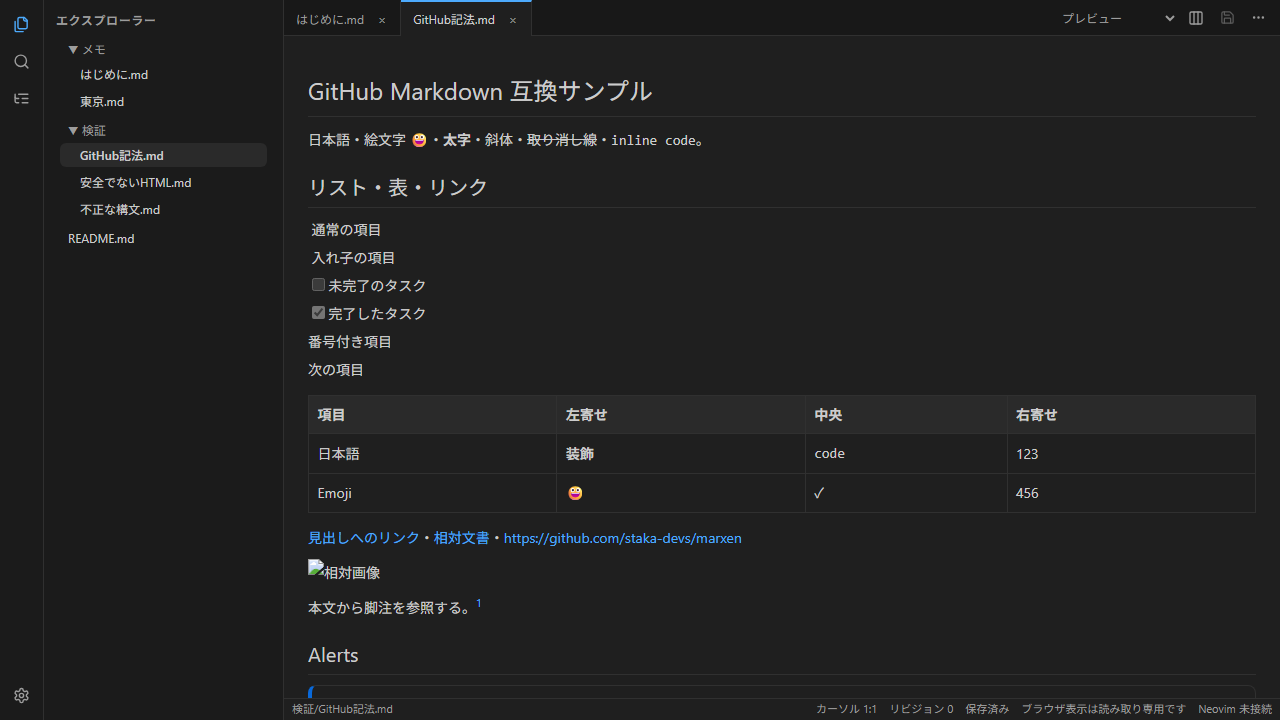
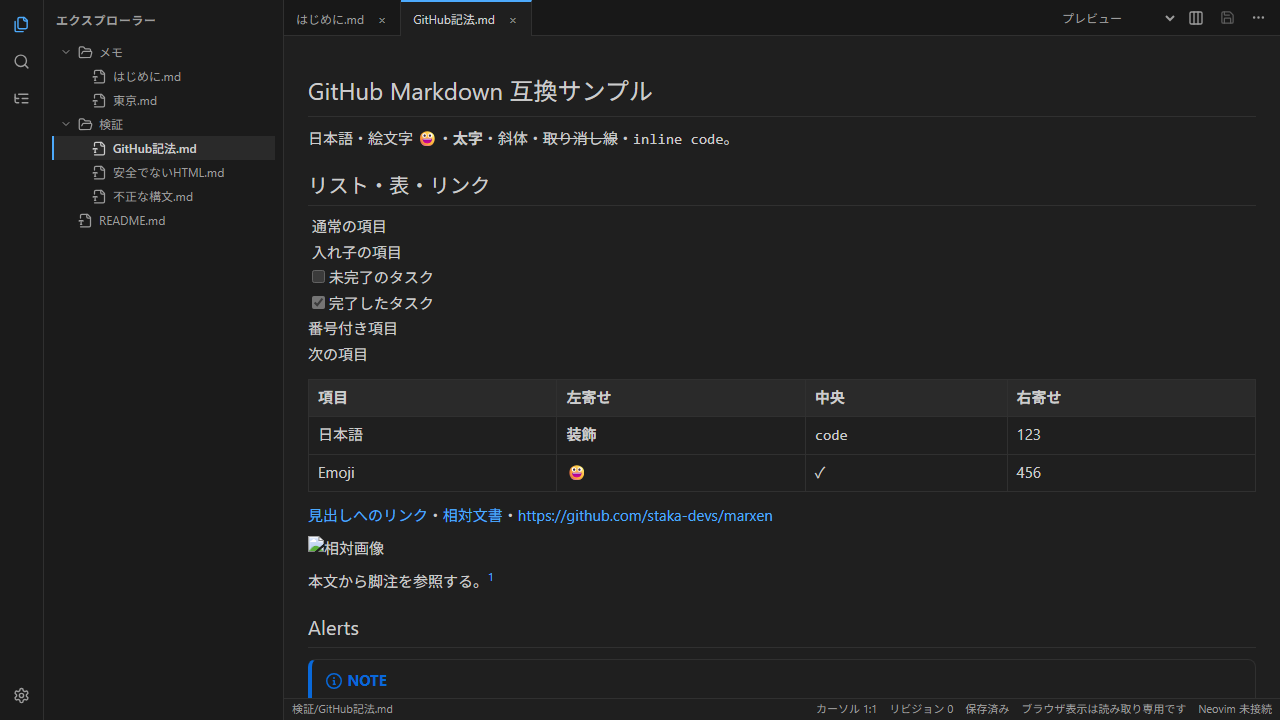
test: verify native chat and document Windows distribution

diff --git a/src/components/shell/WorkspaceShell.registry.test.tsx b/src/components/shell/WorkspaceShell.registry.test.tsx
@@ -370,9 +370,8 @@ it("opens the natively picked folder instead of a typed prompt", async () => {
   fireEvent.click(screen.getAllByRole("button", { name: "フォルダーを開く" })[0]);
   await screen.findByRole("button", { name: "メモ/a.md" });
   expect(mockedInvoke).toHaveBeenCalledWith("open_workspace", { path: "/picked/ws" });
-  // Clean chrome shows the root in the explorer; the manual path field stays
-  // collapsed until explicitly requested.
-  expect(screen.getByText("/picked/ws")).toBeVisible();
+  expect(screen.getByText("ws")).toBeVisible();
+  expect(screen.getByTitle("/picked/ws")).toHaveTextContent("ws");
 });
 
 it("picks the config file natively and applies it with restart", async () => {

diff --git a/docs/reports/issue-5-ui.md b/docs/reports/issue-5-ui.md
@@ -1,26 +1,23 @@
 # UI・Vim 操作・範囲編集の検証
 
-環境: Windows x64、Node 22.23.2、Playwright 1.63.0、同梱 Neovim 0.11.5。
+環境は Windows x64、Node 22.23.2、Playwright 1.63.0、WebView2 / Edge 154、同梱 Neovim 0.11.5。
 
-編集画面は細いアクティビティバー、切替式の単一サイドバー、コンパクトなタブ、広い本文、最小限のステータスバーで構成する。書式・表示基準・原文ビュー・AI 設定はメニューやパネルから操作する。本文とサイドバーは独立してスクロールする。
+細いアクティビティバー、用途を切り替えるサイドバー、コンパクトなタブ、独立した本文スクロールを使う。分割表示は Markdown 編集と描画を左右に配置し、境界のドラッグで幅を調整する。フォルダー名と種類別アイコンを表示し、テキストと対応画像以外のファイルを一覧から除く。外観・エディター・Vim・コピー・AI の設定を分ける。
 
-挿入・置換では実 Neovim のユーザーマッピングを優先し、該当しない入力は正確な半開範囲を置換する。モードが不確かなキーは Neovim へ送り、実行時のモードで処理する。連続入力の位置は投影して入力順を保ち、改訂不一致では再同期する。再送は採取した全文との一致を確認できる場合だけ一度行う。
-
-挿入中のマウス選択は維持し、選択や新しい入力が発生した後は古い非同期応答を反映しない。貼り付けイベントの本文・画像を既定挿入より先に取得し、一度だけ範囲編集として送る。キーボード貼り付けはマッピングを優先し、メニュー貼り付けは直接挿入する。通常モードの Ctrl+V は Neovim の矩形選択となる。
-
-AI 提案は隔離コピーと差分レビューを経て承認する。適用・変更なし・失敗・ロールバックを文書ごとに表示し、適用後は正本の snapshot を取得する。相対画像は文書 ID ごとに解決し、文書切替後の古い取得結果を捨てる。
-
-| 検証 | 実施結果 |
+| 検証 | 結果 |
 | --- | --- |
-| `npm run typecheck` | 成功 |
-| `npm test` | 25 ファイル / 185 件成功。模擬 IPC で入力順、遅延応答、マッピング、選択置換、改訂競合、貼り付けの単一性、画像、AI 承認結果を確認 |
-| `npm run test:e2e` | 製品ビルド 11 件、ライブ編集器 15 件成功。表示切替、狭い画面、操作メニュー、原文保持、描画、Composition の確定・取消を確認 |
-| UI 画像 | [1493×1047](issue-5-ui/clean-1493.png)、[1280×800](issue-5-ui/clean-1280.png) を製品 E2E で生成 |
-| Windows 実 WebView2・開発アプリ | フォルダーダイアログからの読み込み、Markdown 表示、タスク変更の保存、実 Neovim Undo 後の保存、`.vimrc` パスの適用と再起動を確認 |
-| Windows 実 WebView2 のマッピング | テスト設定の `nnoremap <F6> gg` を読み込み、Windows SendKeys の F6 入力で 15:1→1:1、改訂不変を確認。ハードウェアによるキー押下ではない |
-| Windows 実日本語 IME | 原文表示では Orca の Windows キー入力で「にほん」→「日本」を変換。ライブ表示でも「か」を入力。どちらも OS の Composition 更新中は本文・改訂不変、確定時は改訂が一度進み、一回の Neovim Undo で元の本文に戻る。未確定「か」の Esc 取消も両表示で本文・改訂不変 |
-| Windows 実クリップボード | 日本語・絵文字の Ctrl+V は改訂が一度進み、保存後は 333 バイト。一回の Undo・保存で元の 316 バイトと SHA-256 が一致。PNG は 16×12 / 140 バイトを Rust が `images/image.png` へ保存し、相対 Markdown を一度挿入。Rust の画像読込と実体が一致し、本文は一回の Undo・保存で元に戻る。検証後に元のクリップボードを復元 |
+| 模擬 IPC の回帰 | 入力順、遅延応答、ユーザーマッピング優先、選択置換、revision 競合、貼り付けの単一性、画像、AI 適用結果を確認 |
+| 製品・ライブ E2E | 表示切替、幅の変更、狭い画面、テーマ、カーソル、操作メニュー、文書保持、Composition の確定・取消を確認 |
+| Windows 実アプリ | フォルダー読込、Markdown 描画、保存、Neovim Undo、.vimrc 設定と再起動を確認 |
+| 実マッピング | nnoremap <F6> gg を読み込み、Windows SendKeys の F6 で 15:1→1:1、revision 不変 |
+| Windows 実 IME | Markdown / ライブで未確定・変換中は文書不変。確定で一度だけ revision が進み、一回の Neovim Undo で復元。Esc 取消と Normal モードの IME 入力は文書不変 |
+| テキスト・画像 | テキストは Neovim で編集し、Markdown 表示操作を無効化。画像は文書 buffer を作らず専用タブで表示、フィット・実サイズ・125% 拡大を確認 |
+| 画像ドラッグ | 内部画像の相対リンク挿入、Windows OLE FileDrop による外部 PNG のコピーと一回の挿入を確認。読み戻した文書と画像ハッシュを照合し、一回の Undo で文書復元 |
+| Windows 実クリップボード | 日本語・絵文字と PNG の貼り付けを確認。本文は一度だけ編集され、Undo・保存後のハッシュが元と一致。検証後にクリップボードを復元 |
+| Windows Word | 通常の貼り付けで二つの PNG、見出し、表、日本語・絵文字を保持。HTML / RTF にも二つの画像が存在 |
 
-Windows の実 IME・クリップボード検証は WebView2 / Edge 154 と同梱 Neovim で行い、OS の入力イベントと Rust 正本を読み戻して判定した。キーは Windows への合成入力であり、ハードウェアによる押下ではない。Chromium の Composition 検証は別の結果として扱う。
+Windows のキーとドラッグは OS への合成入力であり、文書・revision・ファイルの読み戻しで効果を判定した。ブラウザの Composition テストは別の検証として扱う。
 
-設定ファイル選択ダイアログ、配布後の GUI 操作、macOS / Linux の実 WebView・IME、認証済み AI の実操作は未確認。
+[1493×1047](issue-5-ui/clean-1493.png)、[1280×800](issue-5-ui/clean-1280.png)、[分割](issue-5-ui/split.png)、[設定](issue-5-ui/settings-dark.png) は製品 E2E の画像。
+
+最終件数と展開した配布アプリの確認は [統合検証報告](issue-9-integration.md) を参照する。メールアプリへの画像入り貼り付け、macOS / Linux の実 WebView / IME、認証済み AI 生成は未確認。

diff --git a/docs/reports/issue-9-integration.md b/docs/reports/issue-9-integration.md
@@ -1,0 +1,67 @@
+# Marxen 統合検証・Windows 配布確認
+
+検証日: 2026-10-09。環境: Windows x64、Node 22.23.2、Rust 1.99.0 MSVC、Tauri 2.12、WebView2 / Edge 154、Neovim 0.11.5。
+
+## 自動検証
+
+| 検証 | 結果 |
+| --- | --- |
+| TypeScript `typecheck` / production `build` | 成功 |
+| Vitest | 36 ファイル / 231 件成功 |
+| 配布資源スクリプト | Node 3 件成功 |
+| Windows native Rust | 161 件成功。実 Neovim の編集・保存・復元・隔離、ローカル HTTP / ACP の AI 回帰を含む |
+| Rust fmt / Clippy | fmt と全 target の `-D warnings` 成功 |
+| 生成 IPC 契約 | 文書・AI・隔離の 3 種類すべて一致 |
+| 製品 E2E | Chromium 12 件成功 |
+| ライブ編集器 E2E | Chromium 17 件成功 |
+| 実 Neovim smoke | 同梱資源と配布物の両方で、版・Markdown runtime・日本語・絵文字 buffer が成功 |
+
+資格情報ストアのテストは opt-in で、既定の Rust テストでは実ストアを操作しない。専用 entry を使った Windows の保存・再取得・削除は別途確認済み。利用者の API 資格情報は使っていない。
+
+## Windows 実アプリ
+
+実 WebView2 と Rust の文書 snapshot、revision、ファイルを読み戻して判定した。キー・ドラッグは Windows への合成入力であり、ハードウェアによる押下ではない。
+
+| 操作 | 確認した結果 |
+| --- | --- |
+| 文書・設定 | フォルダー読込、Markdown 描画、保存、Neovim Undo、設定適用、ユーザーマッピング |
+| 日本語 IME | Markdown / ライブの未確定・変換中は文書不変。確定は一回の変更。一回の Undo で復元。Esc 取消と Normal モードは文書不変 |
+| エクスプローラー | フォルダー・Markdown・テキスト・画像の種類別アイコン。非対応ファイルは非表示。ルートはフォルダー名、完全パスは tooltip |
+| テキスト・画像 | テキストは Neovim の文書。画像は buffer を作らず Blob URL で表示し、フィット・実サイズ・125% 拡大 |
+| 内部画像ドラッグ | 日本語名を URL エンコードした相対リンクを一回だけ挿入。一回の Undo で復元 |
+| 外部画像ドラッグ | Windows OLE FileDrop → Tauri → Rust で PNG をコピーして挿入。コピー元・コピー先の SHA-256 が一致。一回の Undo で文書復元 |
+| Agent チャット | 実 Rust → ローカル ACP fixture → WebView2 で回答。非表示・再表示、新規会話・以前の会話への切替で履歴保持。質問は文書不変 |
+| インラインチャット | Ctrl+Shift+I でカーソルの近くに開き、Agent パネルは閉じたまま。差分確認、対象範囲だけの適用、一回の Undo |
+| AI 取消 | 途中の応答を取消し、提案を作らず文書を保持 |
+| 画像入りリッチコピー | Windows Word の通常の貼り付けで二つの PNG、見出し、表、日本語・絵文字を保持。HTML / RTF の両方に画像を含む。元のクリップボードを復元 |
+
+配布版から開いた [インラインチャット](issue-9-integration/windows-inline.png)、[Agent チャット](issue-9-integration/windows-agent.png)、[画像タブ](issue-9-integration/windows-image.png)。製品 E2E の [分割](issue-5-ui/split.png)、[設定](issue-5-ui/settings-dark.png) も参照。
+
+GUI の AI 回答・提案・取消はローカル検証用 ACP プロセスを使用した。認証済み provider への生成成功は意味しない。インラインの差分適用・Undo と画像ドラッグは同じ Rust / WebView2 の開発アプリで検証し、配布版では起動、画像表示、チャット、IME と資源配置を確認した。
+
+## Windows 配布物
+
+アプリソースは `afdef80`。未署名 NSIS `Marxen_0.1.0_x64-setup.exe` を生成し、インストールせず作業ディレクトリへ展開して起動した。
+
+| 項目 | 値 |
+| --- | --- |
+| インストーラーのサイズ | 16,261,272 bytes |
[2 lines of base64/hex data omitted]
+| Neovim 資源 | 2,067 ファイル。配布元とのファイル集合・各 SHA-256 がすべて一致 |
+
+展開したアプリと build 出力の差分は Tauri の NSIS 識別子 3 bytes のみ。実プロセスの親子関係から、展開先の `neovim/bin/nvim.exe` を起動したことも確認した。検証用画面に開いた文書は未保存変更を残さず閉じた。
+
+## OS ごとの確認範囲
+
+CI は Windows x64 (NSIS)、macOS arm64 / x64 (app / DMG)、Linux x64 (deb / AppImage) で native テスト・IPC・E2E・package build を実行する。対象コミットの最新結果と成果物は [PR #10 の checks](https://github.com/staka-devs/marxen/pull/10/checks) を参照する。古いコミットの結果を現在の確認結果に流用しない。
+
+以下は未確認。
+
+- macOS / Linux の実 WebView、日本語 IME、OS 資格情報ストア、配布後の対話操作。
+- Windows 実 WebView2 での地図・3D 描画。Chromium では確認済み。
+- 認証済み Codex / OpenCode / HTTP provider への生成要求。実 OpenCode 接続は initialize / session/new まで。
+- メールアプリへの画像入りリッチテキスト貼り付け。
+- NSIS による実インストール・アンインストール、署名・公証、Docker devcontainer build。
+
+ブラウザ E2E、headless Neovim、package build の成功から実 GUI / IME の成功を推定しない。

diff --git a/docs/reports/issue-7-ai.md b/docs/reports/issue-7-ai.md
@@ -1,13 +1,19 @@
-# AI 接続の検証
+# AI 接続とチャットの検証
 
-Windows x64 / MSVC で確認した。
+Windows x64 / MSVC、実 WebView2、同梱 Neovim 0.11.5 で確認した。
 
 | 検証 | 結果 |
 | --- | --- |
-| `cargo test --manifest-path src-tauri/Cargo.toml --no-default-features --locked --test ai` | 18 件成功。ローカル SSE サーバー、独立 ACP mock、取消・timeout・巨大行・権限拒否・接続失敗 |
-| `MARXEN_NATIVE_KEYRING_TEST=1 cargo test --manifest-path src-tauri/Cargo.toml --no-default-features --locked --test credentials_native` | Windows Credential Store で保存、別インスタンスからの取得、削除を確認 |
-| OpenCode v2.0.24 の実接続 | `initialize` と `session/new` が成功。プロンプトは未送信 |
+| Rust AI 統合テスト | 21 件成功。ローカル SSE、独立 ACP 子プロセス、会話履歴、取消、無応答サーバー、timeout、巨大行、権限拒否、接続失敗 |
+| Windows Credential Store | opt-in テストで専用 entry を保存、別インスタンスから取得、削除。利用者の API 資格情報は不使用 |
+| OpenCode v2.0.24 の接続確認 | initialize / session/new 成功。生成プロンプトは未送信 |
+| Windows Agent チャット | 実 Rust → ACP fixture → WebView2 の回答を確認。非表示・再表示、会話新規作成・切替で履歴を保持し、質問は文書を変更しない |
+| Windows インラインチャット | 編集位置の近くに開き、Agent パネルは閉じたまま。提案の差分確認、選択範囲だけの適用、一回の Undo、本文へのフォーカス復帰を確認 |
+| Windows 取消 | 応答途中の取消が完了し、提案を作らず文書を保持 |
+| フロントエンド回帰 | 早着イベント、遅延した実行 ID、重複終端イベント、送信と取消の競合、接続先ごとの履歴分離、完了会話だけの履歴送信を確認 |
 
-実 CLI のテストは `MARXEN_REAL_ACP_BIN` / `MARXEN_REAL_ACP_ARGS` が指定された場合だけ実行する。通常のテスト成功は実接続の成功を意味しない。
+ACP は要求ごとに新規 session を作り、完了した会話をプロンプトへ含める。ACP の永続 session 再開は提供しない。選択範囲の context はその抜粋だけを送り、Rust が Neovim の文書と照合する。
 
-実 API への生成要求、macOS / Linux の OS ストア、各 OS の実 WebView からの AI 操作は未確認。mock や Windows の確認結果から成功を推定しない。
+実 CLI の接続テストは MARXEN_REAL_ACP_BIN / MARXEN_REAL_ACP_ARGS 指定時だけ実行する。既定の成功は実 provider による生成の成功を意味しない。GUI の生成・適用検証もローカル fixture を使用した。
+
+認証済み provider への生成要求、macOS / Linux の OS ストアと実 WebView 操作は未確認。全体の最終結果は [統合検証報告](issue-9-integration.md) を参照する。

diff --git a/docs/reports/issue-8-isolation.md b/docs/reports/issue-8-isolation.md
@@ -13,17 +13,17 @@
 
 | 検証 | 結果 |
 | --- | --- |
-| cargo test --lib --no-default-features | 43 件成功 (端末ゲート 3 件・構造検証を含む) |
+| cargo test --lib | 48 件成功 (終端イベントのゲート・構造検証を含む) |
 | cargo test --test contracts | 11 件成功 |
 | cargo test --test workspace | 21 件成功 |
 | cargo test --test isolation | 26 件成功 (選択限定・鍛造拒否・全文条件・提案取り込み・最小適用と単一 Undo・BOM/CRLF 保持・未選択ファイル無視・隠れドリフトの preflight 拒否・明示設定の注入による適用失敗と部分結果・ロールバック・死 actor・pin と settlement 順序・遅延書き込み・panic 時の刈り取り先行・HTTP 遅延端末・準備失敗の非 pin・stale と disk 競合・OS 共通の相対パス、traversal と symlink・scope 完全一致) |
-| cargo test --test ai | 18 件成功 (巨大行は Done 提案にならないことを、`Err` または `Ok`＋Error イベントあり＋Done なしのいずれかで判定) |
+| cargo test --test ai | 21 件成功 (巨大行は Done 提案にならないことを、`Err` または `Ok`＋Error イベントあり＋Done なしのいずれかで判定) |
 | cargo test --test vim_input | 9 件成功 |
 | cargo clippy --all-targets -- -D warnings | 成功 |
 | cargo fmt -- --check | 成功 |
 | npm run contracts:check / ai-contracts:check / isolation-contracts:check | 成功 |
 | npm run typecheck | 成功 |
-| npm run test (Vitest) | 25 ファイル / 185 件成功 |
+| npm run test (Vitest) | UI・IPC の回帰が成功。全体の最終件数は統合検証報告を参照 |
 | npm run build | 成功 (chunk size 警告あり) |
 | npm run test:bundling | 3 tests 成功 |
 
@@ -31,7 +31,7 @@
 
 - 各 OS の native CI と配布確認は [統合検証報告](issue-9-integration.md) に記載する。
 - 実 CLI (Codex / OpenCode) との workspace prompt 送信。mock ACP 子プロセスと 127.0.0.1 の mock HTTP のみで検証した。
-- 各 OS の実 WebView からの認証済み AI 生成と差分承認の全操作。Chromium と Rust の成功から推定しない。
-- 署名・公証・配布後の runtime 配置確認。
+- 各 OS の実 WebView からの認証済み AI 生成。Windows のローカル ACP fixture による差分承認・適用・Undo は確認済みだが、実 provider の生成からは検証していない。
+- 署名・公証。Windows の配布後 runtime 配置確認は統合検証報告を参照。
 - `credentials_native` は環境変数指定時のみ実行する opt-in であり、既定では何も検証せずに通過する。Windows の実 OS ストアでは使い捨て entry を保存・再取得・削除した。利用者の API 資格情報は使っていない。
 - 実電源断・ディスク容量不足、最終置換直前の競合、OS の部分失敗時の保証。staging は同一マシン上のコピーであり OS サンドボックスではない。

diff --git a/docs/reports/issue-2-foundation.md b/docs/reports/issue-2-foundation.md
@@ -1,30 +1,16 @@
-# デスクトップ基盤の検証結果
+# デスクトップ基盤の検証
 
-- 日付: 2026-10-07
-- 対象: Rust / Tauri v2、React / TypeScript、IPC 契約、Neovim 配布資源
-- 環境: Windows x64、Node 22.23.2、npm 11.17.0、Rust 1.99.0 MSVC
-
-## 実施済み
+Windows x64、Node 22.23.2、Rust 1.99.0 MSVC で Rust / Tauri、React / TypeScript、IPC 契約、Neovim 配布資源を検証した。
 
 | 検証 | 結果 |
 | --- | --- |
-| `npm run build` / `npm run typecheck` | 成功 |
-| `npm test` | Vitest 5 tests 成功 |
-| `npm run test:bundling` | Node 3 tests 成功 |
-| `cargo test --no-default-features --locked` | 11 tests 成功 |
-| `cargo test --locked` | Windows native 11 tests 成功 |
-| `cargo check --locked --offline` | WebView2 / wry / Tauri を含め成功 |
-| `cargo fmt -- --check` | 成功 |
-| `cargo clippy --locked --offline --all-targets -- -D warnings` | 成功 |
-| `npm run contracts:check` | Rust / TypeScript 契約の一致を確認 |
-| `npm run verify:neovim` | 実 Neovim 0.11.5、Markdown runtime、日本語・絵文字 buffer の smoke 成功 |
-| `npm run test:e2e` | Chromium 3 tests 成功 |
+| TypeScript と製品ビルド | typecheck / build 成功 |
+| 配布資源スクリプト | Node 3 件成功 |
+| IPC 契約 | 文書・AI・隔離の生成型と Rust 型が一致 |
+| Rust | desktop を含むテスト、fmt、全 target の Clippy 成功 |
+| 同梱 Neovim | 0.11.5、Markdown runtime、日本語・絵文字 buffer の smoke 成功 |
+| Windows 配布 | NSIS を生成し、展開した実行ファイルと Neovim 資源を照合。展開先から実 WebView2 と同梱 Neovim を起動 |
 
-## 未実施
+全体の件数、配布物のハッシュ、各 OS の確認範囲は [統合検証報告](issue-9-integration.md) を参照する。ブラウザ E2E と headless Neovim は、OS 固有の実 WebView / IME の代替ではない。
 
-- macOS arm64 / x64、Linux x64 の native compile、Neovim smoke、package 操作。
-- Windows / macOS / Linux の実 WebView 操作・日本語 IME。Chromium の結果から推定しない。
-- NSIS / DMG / deb / AppImage の package build、配布後の runtime 配置確認、署名 / 公証。
-- devcontainer の Docker build。
-
-この結果は基盤に対する検証であり、編集・保存・描画・AI を含むアプリ全体の検証結果ではない。
+devcontainer の Docker build、署名・公証、Windows インストーラーによる実インストールは未実施。

diff --git a/docs/reports/issue-6-live.md b/docs/reports/issue-6-live.md
@@ -2,7 +2,7 @@
 
 CodeMirror 内の非アクティブな Markdown ブロックを描画し、編集対象のブロックは原文として扱う。チェックボックスは範囲編集を送り、表のセル・リンク・画像・脚注の操作は対応する原文範囲へ移動する。編集器の下にプレビューを重ねない。
 
-環境: Windows x64、Node 22.23.2、Playwright 1.63.0。`npm run test:e2e` で製品ビルド 11 件とライブ編集器 15 件が成功した。
+環境: Windows x64、Node 22.23.2、Playwright 1.63.0。`npm run test:e2e` で製品ビルド 12 件とライブ編集器 17 件が成功した。最終結果と配布アプリでの検証は [統合検証報告](issue-9-integration.md) を参照する。
 
 ライブの検証では、単一編集器、描画と原文の切替、表とタスクの最小編集、隣接原文の保持、同じブロックを複数配置した場合の範囲対応、テーマ、画像の遅延結果破棄、特殊ブロックの破棄、脚注、カーソル連番を確認した。
 
